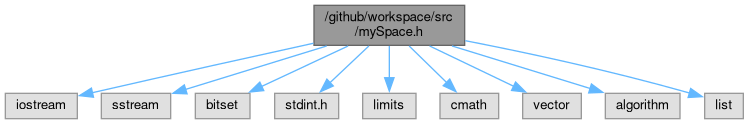
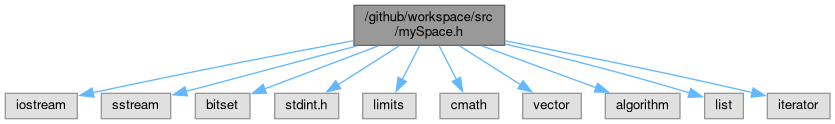
deploy: 8cd73b262c3b7a42bae6bb460446164779dda872

Changed region(s): [[0.0, 0.0242, 1.0, 0.9677]]

diff --git a/mySpace_8h_source.html b/mySpace_8h_source.html
@@ -88,74 +88,84 @@ $(function() {
 <div class="line"><a id="l00009" name="l00009"></a><span class="lineno">    9</span><span class="preprocessor">#include &lt;vector&gt;</span></div>
 <div class="line"><a id="l00010" name="l00010"></a><span class="lineno">   10</span><span class="preprocessor">#include &lt;algorithm&gt;</span></div>
 <div class="line"><a id="l00011" name="l00011"></a><span class="lineno">   11</span><span class="preprocessor">#include &lt;list&gt;</span></div>
-<div class="line"><a id="l00012" name="l00012"></a><span class="lineno">   12</span><span class="keyword">using namespace </span>std;</div>
-<div class="line"><a id="l00013" name="l00013"></a><span class="lineno">   13</span> </div>
-<div class="line"><a id="l00027" name="l00027"></a><span class="lineno">   27</span><span class="keyword">namespace </span><a class="code hl_namespace" href="namespacemySpace.html">mySpace</a> {</div>
-<div class="line"><a id="l00028" name="l00028"></a><span class="lineno">   28</span> </div>
-<div class="line"><a id="l00029" name="l00029"></a><span class="lineno"><a class="line" href="namespacemySpace.html#ae5d188d489ba6366008ab26bfe01c39d">   29</a></span><span class="keyword">const</span> <span class="keywordtype">int</span> <a class="code hl_variable" href="namespacemySpace.html#ae5d188d489ba6366008ab26bfe01c39d">bytesize</a> = 8; </div>
-<div class="line"><a id="l00034" name="l00034"></a><span class="lineno">   34</span><span class="keyword">template</span>&lt;<span class="keyword">typename</span> T&gt;</div>
-<div class="line"><a id="l00035" name="l00035"></a><span class="lineno"><a class="line" href="namespacemySpace.html#a0d57b7142e21cd86dcb9016ec6bd8fe3">   35</a></span><span class="keywordtype">void</span> <a class="code hl_function" href="namespacemySpace.html#a0d57b7142e21cd86dcb9016ec6bd8fe3">printString</a>(T line)</div>
-<div class="line"><a id="l00036" name="l00036"></a><span class="lineno">   36</span>{</div>
-<div class="line"><a id="l00037" name="l00037"></a><span class="lineno">   37</span>    std::ostringstream ss;</div>
-<div class="line"><a id="l00038" name="l00038"></a><span class="lineno">   38</span>    ss &lt;&lt; line;</div>
-<div class="line"><a id="l00039" name="l00039"></a><span class="lineno">   39</span>    cout &lt;&lt; ss.str();</div>
-<div class="line"><a id="l00040" name="l00040"></a><span class="lineno">   40</span>}</div>
-<div class="line"><a id="l00041" name="l00041"></a><span class="lineno">   41</span> </div>
-<div class="line"><a id="l00047" name="l00047"></a><span class="lineno"><a class="line" href="namespacemySpace.html#ac9439dd2c31f2c65153e2505a933e06a">   47</a></span><span class="keywordtype">void</span> <a class="code hl_function" href="namespacemySpace.html#ac9439dd2c31f2c65153e2505a933e06a">dotted</a>(<span class="keyword">const</span> <span class="keywordtype">string</span> &amp;bitString, <span class="keywordtype">int</span> size, <span class="keywordtype">string</span> &amp;res)</div>
-<div class="line"><a id="l00048" name="l00048"></a><span class="lineno">   48</span>{</div>
-<div class="line"><a id="l00049" name="l00049"></a><span class="lineno">   49</span>    size -= <a class="code hl_variable" href="namespacemySpace.html#ae5d188d489ba6366008ab26bfe01c39d">bytesize</a>;</div>
-<div class="line"><a id="l00050" name="l00050"></a><span class="lineno">   50</span> </div>
-<div class="line"><a id="l00051" name="l00051"></a><span class="lineno">   51</span>    <span class="keywordflow">if</span> (size &lt;= 0) {</div>
-<div class="line"><a id="l00052" name="l00052"></a><span class="lineno">   52</span>        <span class="keyword">const</span> <span class="keywordtype">int</span> sz = <a class="code hl_variable" href="namespacemySpace.html#ae5d188d489ba6366008ab26bfe01c39d">bytesize</a> + size;</div>
-<div class="line"><a id="l00053" name="l00053"></a><span class="lineno">   53</span>        <a class="code hl_function" href="namespacemySpace.html#a0d57b7142e21cd86dcb9016ec6bd8fe3">printString</a>(bitset&lt;bytesize&gt; { bitString.substr(0, sz) }.to_ulong());</div>
-<div class="line"><a id="l00054" name="l00054"></a><span class="lineno">   54</span>        <span class="keywordflow">return</span>;</div>
-<div class="line"><a id="l00055" name="l00055"></a><span class="lineno">   55</span>    }</div>
-<div class="line"><a id="l00056" name="l00056"></a><span class="lineno">   56</span> </div>
-<div class="line"><a id="l00057" name="l00057"></a><span class="lineno">   57</span>    <a class="code hl_function" href="namespacemySpace.html#ac9439dd2c31f2c65153e2505a933e06a">dotted</a>(bitString, size, res);</div>
-<div class="line"><a id="l00058" name="l00058"></a><span class="lineno">   58</span> </div>
-<div class="line"><a id="l00059" name="l00059"></a><span class="lineno">   59</span>    cout &lt;&lt; <span class="stringliteral">&quot;.&quot;</span>;</div>
-<div class="line"><a id="l00060" name="l00060"></a><span class="lineno">   60</span>    <a class="code hl_function" href="namespacemySpace.html#a0d57b7142e21cd86dcb9016ec6bd8fe3">printString</a>(bitset&lt;bytesize&gt; { bitString.substr(size, <a class="code hl_variable" href="namespacemySpace.html#ae5d188d489ba6366008ab26bfe01c39d">bytesize</a>) }.to_ulong());</div>
-<div class="line"><a id="l00061" name="l00061"></a><span class="lineno">   61</span>}</div>
-<div class="line"><a id="l00062" name="l00062"></a><span class="lineno">   62</span> </div>
-<div class="line"><a id="l00066" name="l00066"></a><span class="lineno">   66</span><span class="keyword">template</span>&lt;<span class="keyword">template</span>&lt;<span class="keyword">typename</span>, <span class="keyword">typename</span>&gt; <span class="keyword">typename</span> Container, <span class="keyword">typename</span> Type, <span class="keyword">typename</span> Allocator = allocator&lt;Type&gt;,</div>
-<div class="line"><a id="l00067" name="l00067"></a><span class="lineno">   67</span>     <span class="keyword">typename</span> = enable_if_t&lt;is_same_v&lt;Container&lt;Type, Allocator&gt;,</div>
-<div class="line"><a id="l00068" name="l00068"></a><span class="lineno">   68</span>                      vector&lt;Type, Allocator&gt;&gt; || is_same_v&lt;Container&lt;Type, Allocator&gt;, list&lt;Type, Allocator&gt;&gt;&gt;&gt;</div>
-<div class="line"><a id="l00069" name="l00069"></a><span class="lineno"><a class="line" href="namespacemySpace.html#ad5ceba764dde952f1f0d9b7350280adc">   69</a></span><span class="keywordtype">void</span> <a class="code hl_function" href="namespacemySpace.html#ad5ceba764dde952f1f0d9b7350280adc">printIP</a>(<span class="keyword">const</span> Container&lt;Type, Allocator&gt; &amp;container)</div>
-<div class="line"><a id="l00070" name="l00070"></a><span class="lineno">   70</span>{</div>
-<div class="line"><a id="l00071" name="l00071"></a><span class="lineno">   71</span>    <span class="keywordflow">for</span> (<span class="keyword">const</span> <span class="keyword">auto</span> &amp;x : container) {</div>
-<div class="line"><a id="l00072" name="l00072"></a><span class="lineno">   72</span>        <a class="code hl_function" href="namespacemySpace.html#a0d57b7142e21cd86dcb9016ec6bd8fe3">printString</a>(x);</div>
-<div class="line"><a id="l00073" name="l00073"></a><span class="lineno">   73</span>        cout &lt;&lt; ((x == container.back()) ? <span class="stringliteral">&quot;\n&quot;</span> : <span class="stringliteral">&quot;.&quot;</span>);</div>
-<div class="line"><a id="l00074" name="l00074"></a><span class="lineno">   74</span>    }</div>
-<div class="line"><a id="l00075" name="l00075"></a><span class="lineno">   75</span>}</div>
-<div class="line"><a id="l00076" name="l00076"></a><span class="lineno">   76</span> </div>
-<div class="line"><a id="l00080" name="l00080"></a><span class="lineno">   80</span><span class="keyword">template</span>&lt;<span class="keyword">template</span>&lt;<span class="keyword">typename</span>, <span class="keyword">typename</span>, <span class="keyword">typename</span>&gt; <span class="keyword">typename</span> bString, <span class="keyword">typename</span> CharT,</div>
-<div class="line"><a id="l00081" name="l00081"></a><span class="lineno">   81</span>     <span class="keyword">typename</span> Traits = std::char_traits&lt;CharT&gt;, <span class="keyword">typename</span> Allocator = std::allocator&lt;CharT&gt;,</div>
-<div class="line"><a id="l00082" name="l00082"></a><span class="lineno">   82</span>     <span class="keyword">typename</span> = enable_if_t&lt;is_same_v&lt;bString&lt;CharT, Traits, Allocator&gt;, basic_string&lt;CharT, Traits, Allocator&gt;&gt;&gt;&gt;</div>
-<div class="line"><a id="l00083" name="l00083"></a><span class="lineno"><a class="line" href="namespacemySpace.html#a64ee9b80eda0c0c5c09307b48af40762">   83</a></span><span class="keywordtype">void</span> <a class="code hl_function" href="namespacemySpace.html#ad5ceba764dde952f1f0d9b7350280adc">printIP</a>(<span class="keyword">const</span> bString&lt;CharT, Traits, Allocator&gt; &amp;s)</div>
-<div class="line"><a id="l00084" name="l00084"></a><span class="lineno">   84</span>{</div>
-<div class="line"><a id="l00085" name="l00085"></a><span class="lineno">   85</span>    <a class="code hl_function" href="namespacemySpace.html#a0d57b7142e21cd86dcb9016ec6bd8fe3">printString</a>(s);</div>
-<div class="line"><a id="l00086" name="l00086"></a><span class="lineno">   86</span>    cout &lt;&lt; endl;</div>
-<div class="line"><a id="l00087" name="l00087"></a><span class="lineno">   87</span>}</div>
-<div class="line"><a id="l00088" name="l00088"></a><span class="lineno">   88</span> </div>
-<div class="line"><a id="l00092" name="l00092"></a><span class="lineno">   92</span><span class="keyword">template</span>&lt;<span class="keyword">typename</span> Type, <span class="keyword">typename</span> = enable_if_t&lt;is_<span class="keywordtype">signed</span>_v&lt;Type&gt;&gt;&gt;</div>
-<div class="line"><a id="l00093" name="l00093"></a><span class="lineno"><a class="line" href="namespacemySpace.html#a23a371bb9fc2c58c37ab2c2a5b180006">   93</a></span><span class="keywordtype">void</span> <a class="code hl_function" href="namespacemySpace.html#ad5ceba764dde952f1f0d9b7350280adc">printIP</a>(<span class="keyword">const</span> Type &amp;num)</div>
-<div class="line"><a id="l00094" name="l00094"></a><span class="lineno">   94</span>{</div>
-<div class="line"><a id="l00095" name="l00095"></a><span class="lineno">   95</span>    bitset&lt;numeric_limits&lt;Type&gt;::digits + 1&gt; b(num);</div>
-<div class="line"><a id="l00096" name="l00096"></a><span class="lineno">   96</span>    <span class="keyword">const</span> <span class="keywordtype">string</span> bitString(b.to_string());</div>
-<div class="line"><a id="l00097" name="l00097"></a><span class="lineno">   97</span>    <span class="keywordtype">string</span> res;</div>
-<div class="line"><a id="l00098" name="l00098"></a><span class="lineno">   98</span>    <a class="code hl_function" href="namespacemySpace.html#ac9439dd2c31f2c65153e2505a933e06a">dotted</a>(bitString, bitString.size(), res);</div>
-<div class="line"><a id="l00099" name="l00099"></a><span class="lineno">   99</span>    <a class="code hl_function" href="namespacemySpace.html#a0d57b7142e21cd86dcb9016ec6bd8fe3">printString</a>(res);</div>
-<div class="line"><a id="l00100" name="l00100"></a><span class="lineno">  100</span>    cout &lt;&lt; endl;</div>
-<div class="line"><a id="l00101" name="l00101"></a><span class="lineno">  101</span>}</div>
+<div class="line"><a id="l00012" name="l00012"></a><span class="lineno">   12</span><span class="preprocessor">#include &lt;iterator&gt;</span></div>
+<div class="line"><a id="l00013" name="l00013"></a><span class="lineno">   13</span><span class="keyword">using namespace </span>std;</div>
+<div class="line"><a id="l00014" name="l00014"></a><span class="lineno">   14</span> </div>
+<div class="line"><a id="l00028" name="l00028"></a><span class="lineno">   28</span><span class="keyword">namespace </span><a class="code hl_namespace" href="namespacemySpace.html">mySpace</a> {</div>
+<div class="line"><a id="l00029" name="l00029"></a><span class="lineno">   29</span> </div>
+<div class="line"><a id="l00030" name="l00030"></a><span class="lineno"><a class="line" href="namespacemySpace.html#ae5d188d489ba6366008ab26bfe01c39d">   30</a></span><span class="keyword">const</span> <span class="keywordtype">int</span> <a class="code hl_variable" href="namespacemySpace.html#ae5d188d489ba6366008ab26bfe01c39d">bytesize</a> = 8; </div>
+<div class="line"><a id="l00035" name="l00035"></a><span class="lineno">   35</span><span class="keyword">template</span>&lt;<span class="keyword">typename</span> T&gt;</div>
+<div class="line"><a id="l00036" name="l00036"></a><span class="lineno"><a class="line" href="namespacemySpace.html#a0d57b7142e21cd86dcb9016ec6bd8fe3">   36</a></span><span class="keywordtype">void</span> <a class="code hl_function" href="namespacemySpace.html#a0d57b7142e21cd86dcb9016ec6bd8fe3">printString</a>(T line)</div>
+<div class="line"><a id="l00037" name="l00037"></a><span class="lineno">   37</span>{</div>
+<div class="line"><a id="l00038" name="l00038"></a><span class="lineno">   38</span>    std::ostringstream ss;</div>
+<div class="line"><a id="l00039" name="l00039"></a><span class="lineno">   39</span>    ss &lt;&lt; line;</div>
+<div class="line"><a id="l00040" name="l00040"></a><span class="lineno">   40</span>    cout &lt;&lt; ss.str();</div>
+<div class="line"><a id="l00041" name="l00041"></a><span class="lineno">   41</span>}</div>
+<div class="line"><a id="l00042" name="l00042"></a><span class="lineno">   42</span> </div>
+<div class="line"><a id="l00048" name="l00048"></a><span class="lineno"><a class="line" href="namespacemySpace.html#ac9439dd2c31f2c65153e2505a933e06a">   48</a></span><span class="keywordtype">void</span> <a class="code hl_function" href="namespacemySpace.html#ac9439dd2c31f2c65153e2505a933e06a">dotted</a>(<span class="keyword">const</span> <span class="keywordtype">string</span> &amp;bitString, <span class="keywordtype">int</span> size, <span class="keywordtype">string</span> &amp;res)</div>
+<div class="line"><a id="l00049" name="l00049"></a><span class="lineno">   49</span>{</div>
+<div class="line"><a id="l00050" name="l00050"></a><span class="lineno">   50</span>    size -= <a class="code hl_variable" href="namespacemySpace.html#ae5d188d489ba6366008ab26bfe01c39d">bytesize</a>;</div>
+<div class="line"><a id="l00051" name="l00051"></a><span class="lineno">   51</span> </div>
+<div class="line"><a id="l00052" name="l00052"></a><span class="lineno">   52</span>    <span class="keywordflow">if</span> (size &lt;= 0) {</div>
+<div class="line"><a id="l00053" name="l00053"></a><span class="lineno">   53</span>        <span class="keyword">const</span> <span class="keywordtype">int</span> sz = <a class="code hl_variable" href="namespacemySpace.html#ae5d188d489ba6366008ab26bfe01c39d">bytesize</a> + size;</div>
+<div class="line"><a id="l00054" name="l00054"></a><span class="lineno">   54</span>        <a class="code hl_function" href="namespacemySpace.html#a0d57b7142e21cd86dcb9016ec6bd8fe3">printString</a>(bitset&lt;bytesize&gt; { bitString.substr(0, sz) }.to_ulong());</div>
+<div class="line"><a id="l00055" name="l00055"></a><span class="lineno">   55</span>        <span class="keywordflow">return</span>;</div>
+<div class="line"><a id="l00056" name="l00056"></a><span class="lineno">   56</span>    }</div>
+<div class="line"><a id="l00057" name="l00057"></a><span class="lineno">   57</span> </div>
+<div class="line"><a id="l00058" name="l00058"></a><span class="lineno">   58</span>    <a class="code hl_function" href="namespacemySpace.html#ac9439dd2c31f2c65153e2505a933e06a">dotted</a>(bitString, size, res);</div>
+<div class="line"><a id="l00059" name="l00059"></a><span class="lineno">   59</span> </div>
+<div class="line"><a id="l00060" name="l00060"></a><span class="lineno">   60</span>    cout &lt;&lt; <span class="stringliteral">&quot;.&quot;</span>;</div>
+<div class="line"><a id="l00061" name="l00061"></a><span class="lineno">   61</span>    <a class="code hl_function" href="namespacemySpace.html#a0d57b7142e21cd86dcb9016ec6bd8fe3">printString</a>(bitset&lt;bytesize&gt; { bitString.substr(size, <a class="code hl_variable" href="namespacemySpace.html#ae5d188d489ba6366008ab26bfe01c39d">bytesize</a>) }.to_ulong());</div>
+<div class="line"><a id="l00062" name="l00062"></a><span class="lineno">   62</span>}</div>
+<div class="line"><a id="l00063" name="l00063"></a><span class="lineno">   63</span> </div>
+<div class="line"><a id="l00067" name="l00067"></a><span class="lineno">   67</span><span class="keyword">template</span>&lt;<span class="keyword">template</span>&lt;<span class="keyword">typename</span>, <span class="keyword">typename</span>&gt; <span class="keyword">typename</span> Container, <span class="keyword">typename</span> Type, <span class="keyword">typename</span> Allocator = allocator&lt;Type&gt;,</div>
+<div class="line"><a id="l00068" name="l00068"></a><span class="lineno">   68</span>     <span class="keyword">typename</span> = enable_if_t&lt;is_same_v&lt;Container&lt;Type, Allocator&gt;,</div>
+<div class="line"><a id="l00069" name="l00069"></a><span class="lineno">   69</span>                      vector&lt;Type, Allocator&gt;&gt; || is_same_v&lt;Container&lt;Type, Allocator&gt;, list&lt;Type, Allocator&gt;&gt;&gt;&gt;</div>
+<div class="line"><a id="l00070" name="l00070"></a><span class="lineno"><a class="line" href="namespacemySpace.html#ad5ceba764dde952f1f0d9b7350280adc">   70</a></span><span class="keywordtype">void</span> <a class="code hl_function" href="namespacemySpace.html#ad5ceba764dde952f1f0d9b7350280adc">printIP</a>(<span class="keyword">const</span> Container&lt;Type, Allocator&gt; &amp;container)</div>
+<div class="line"><a id="l00071" name="l00071"></a><span class="lineno">   71</span>{</div>
+<div class="line"><a id="l00072" name="l00072"></a><span class="lineno">   72</span>    <span class="keywordflow">for</span> (<span class="keyword">auto</span> it = container.cbegin(), end = container.cend(), lastItem = prev(container.cend()); it != end; ++it) {</div>
+<div class="line"><a id="l00073" name="l00073"></a><span class="lineno">   73</span>        <a class="code hl_function" href="namespacemySpace.html#a0d57b7142e21cd86dcb9016ec6bd8fe3">printString</a>(*it);</div>
+<div class="line"><a id="l00074" name="l00074"></a><span class="lineno">   74</span>        cout &lt;&lt; ((it == lastItem) ? <span class="stringliteral">&quot;\n&quot;</span> : <span class="stringliteral">&quot;.&quot;</span>);</div>
+<div class="line"><a id="l00075" name="l00075"></a><span class="lineno">   75</span>    }</div>
+<div class="line"><a id="l00076" name="l00076"></a><span class="lineno">   76</span>}</div>
+<div class="line"><a id="l00077" name="l00077"></a><span class="lineno">   77</span> </div>
+<div class="line"><a id="l00081" name="l00081"></a><span class="lineno">   81</span><span class="keyword">template</span>&lt;<span class="keyword">template</span>&lt;<span class="keyword">typename</span>, <span class="keyword">typename</span>, <span class="keyword">typename</span>&gt; <span class="keyword">typename</span> bString, <span class="keyword">typename</span> CharT,</div>
+<div class="line"><a id="l00082" name="l00082"></a><span class="lineno">   82</span>     <span class="keyword">typename</span> Traits = std::char_traits&lt;CharT&gt;, <span class="keyword">typename</span> Allocator = std::allocator&lt;CharT&gt;,</div>
+<div class="line"><a id="l00083" name="l00083"></a><span class="lineno">   83</span>     <span class="keyword">typename</span> = enable_if_t&lt;is_same_v&lt;bString&lt;CharT, Traits, Allocator&gt;, basic_string&lt;CharT, Traits, Allocator&gt;&gt;&gt;&gt;</div>
+<div class="line"><a id="l00084" name="l00084"></a><span class="lineno"><a class="line" href="namespacemySpace.html#a64ee9b80eda0c0c5c09307b48af40762">   84</a></span><span class="keywordtype">void</span> <a class="code hl_function" href="namespacemySpace.html#ad5ceba764dde952f1f0d9b7350280adc">printIP</a>(<span class="keyword">const</span> bString&lt;CharT, Traits, Allocator&gt; &amp;s)</div>
+<div class="line"><a id="l00085" name="l00085"></a><span class="lineno">   85</span>{</div>
+<div class="line"><a id="l00086" name="l00086"></a><span class="lineno">   86</span>    <a class="code hl_function" href="namespacemySpace.html#a0d57b7142e21cd86dcb9016ec6bd8fe3">printString</a>(s);</div>
+<div class="line"><a id="l00087" name="l00087"></a><span class="lineno">   87</span>    cout &lt;&lt; endl;</div>
+<div class="line"><a id="l00088" name="l00088"></a><span class="lineno">   88</span>}</div>
+<div class="line"><a id="l00089" name="l00089"></a><span class="lineno">   89</span> </div>
+<div class="line"><a id="l00093" name="l00093"></a><span class="lineno">   93</span><span class="keyword">template</span>&lt;<span class="keyword">typename</span> Type, <span class="keyword">typename</span> = enable_if_t&lt;is_<span class="keywordtype">int</span>egral_v&lt;Type&gt; &amp;&amp; !is_same_v&lt;<span class="keywordtype">bool</span>, Type&gt;&gt;&gt;</div>
+<div class="line"><a id="l00094" name="l00094"></a><span class="lineno"><a class="line" href="namespacemySpace.html#a23a371bb9fc2c58c37ab2c2a5b180006">   94</a></span><span class="keywordtype">void</span> <a class="code hl_function" href="namespacemySpace.html#ad5ceba764dde952f1f0d9b7350280adc">printIP</a>(<span class="keyword">const</span> Type &amp;num)</div>
+<div class="line"><a id="l00095" name="l00095"></a><span class="lineno">   95</span>{</div>
+<div class="line"><a id="l00096" name="l00096"></a><span class="lineno">   96</span>    bitset&lt;numeric_limits&lt;Type&gt;::digits + 1&gt; b(num);</div>
+<div class="line"><a id="l00097" name="l00097"></a><span class="lineno">   97</span>    <span class="keyword">const</span> <span class="keywordtype">string</span> bitString(b.to_string());</div>
+<div class="line"><a id="l00098" name="l00098"></a><span class="lineno">   98</span>    <span class="keywordtype">string</span> res;</div>
+<div class="line"><a id="l00099" name="l00099"></a><span class="lineno">   99</span>    <a class="code hl_function" href="namespacemySpace.html#ac9439dd2c31f2c65153e2505a933e06a">dotted</a>(bitString, bitString.size(), res);</div>
+<div class="line"><a id="l00100" name="l00100"></a><span class="lineno">  100</span>    <a class="code hl_function" href="namespacemySpace.html#a0d57b7142e21cd86dcb9016ec6bd8fe3">printString</a>(res);</div>
+<div class="line"><a id="l00101" name="l00101"></a><span class="lineno">  101</span>    cout &lt;&lt; endl;</div>
 <div class="line"><a id="l00102" name="l00102"></a><span class="lineno">  102</span> </div>
-<div class="line"><a id="l00103" name="l00103"></a><span class="lineno">  103</span>} <span class="comment">// namespace mySpace</span></div>
-<div class="line"><a id="l00104" name="l00104"></a><span class="lineno">  104</span> </div>
-<div class="line"><a id="l00105" name="l00105"></a><span class="lineno">  105</span><span class="preprocessor">#endif </span><span class="comment">// MYSPACE_H</span></div>
+<div class="line"><a id="l00103" name="l00103"></a><span class="lineno">  103</span><span class="comment">//    auto bytes = reinterpret_cast&lt;const unsigned char*&gt;(&amp;num);</span></div>
+<div class="line"><a id="l00104" name="l00104"></a><span class="lineno">  104</span><span class="comment">//    auto end = bytes + sizeof(Type);</span></div>
+<div class="line"><a id="l00105" name="l00105"></a><span class="lineno">  105</span><span class="comment">//    copy(</span></div>
+<div class="line"><a id="l00106" name="l00106"></a><span class="lineno">  106</span><span class="comment">//        make_reverse_iterator(end),</span></div>
+<div class="line"><a id="l00107" name="l00107"></a><span class="lineno">  107</span><span class="comment">//        make_reverse_iterator(bytes + 1),</span></div>
+<div class="line"><a id="l00108" name="l00108"></a><span class="lineno">  108</span><span class="comment">//        ostream_iterator&lt;unsigned&gt;(std::cout, &quot;.&quot;)</span></div>
+<div class="line"><a id="l00109" name="l00109"></a><span class="lineno">  109</span><span class="comment">//    );</span></div>
+<div class="line"><a id="l00110" name="l00110"></a><span class="lineno">  110</span><span class="comment">//    std::cout &lt;&lt; unsigned(*bytes) &lt;&lt; std::endl;</span></div>
+<div class="line"><a id="l00111" name="l00111"></a><span class="lineno">  111</span>}</div>
+<div class="line"><a id="l00112" name="l00112"></a><span class="lineno">  112</span> </div>
+<div class="line"><a id="l00113" name="l00113"></a><span class="lineno">  113</span>} <span class="comment">// namespace mySpace</span></div>
+<div class="line"><a id="l00114" name="l00114"></a><span class="lineno">  114</span> </div>
+<div class="line"><a id="l00115" name="l00115"></a><span class="lineno">  115</span><span class="preprocessor">#endif </span><span class="comment">// MYSPACE_H</span></div>
 <div class="ttc" id="anamespacemySpace_html"><div class="ttname"><a href="namespacemySpace.html">mySpace</a></div></div>
-<div class="ttc" id="anamespacemySpace_html_a0d57b7142e21cd86dcb9016ec6bd8fe3"><div class="ttname"><a href="namespacemySpace.html#a0d57b7142e21cd86dcb9016ec6bd8fe3">mySpace::printString</a></div><div class="ttdeci">void printString(T line)</div><div class="ttdoc">print numbers and strings as strings.</div><div class="ttdef"><b>Definition:</b> mySpace.h:35</div></div>
-<div class="ttc" id="anamespacemySpace_html_ac9439dd2c31f2c65153e2505a933e06a"><div class="ttname"><a href="namespacemySpace.html#ac9439dd2c31f2c65153e2505a933e06a">mySpace::dotted</a></div><div class="ttdeci">void dotted(const string &amp;bitString, int size, string &amp;res)</div><div class="ttdoc">prints bytes, starts from highest.</div><div class="ttdef"><b>Definition:</b> mySpace.h:47</div></div>
-<div class="ttc" id="anamespacemySpace_html_ad5ceba764dde952f1f0d9b7350280adc"><div class="ttname"><a href="namespacemySpace.html#ad5ceba764dde952f1f0d9b7350280adc">mySpace::printIP</a></div><div class="ttdeci">void printIP(const Container&lt; Type, Allocator &gt; &amp;container)</div><div class="ttdoc">prints bytes from list or vector, starts from highest.</div><div class="ttdef"><b>Definition:</b> mySpace.h:69</div></div>
-<div class="ttc" id="anamespacemySpace_html_ae5d188d489ba6366008ab26bfe01c39d"><div class="ttname"><a href="namespacemySpace.html#ae5d188d489ba6366008ab26bfe01c39d">mySpace::bytesize</a></div><div class="ttdeci">const int bytesize</div><div class="ttdef"><b>Definition:</b> mySpace.h:29</div></div>
+<div class="ttc" id="anamespacemySpace_html_a0d57b7142e21cd86dcb9016ec6bd8fe3"><div class="ttname"><a href="namespacemySpace.html#a0d57b7142e21cd86dcb9016ec6bd8fe3">mySpace::printString</a></div><div class="ttdeci">void printString(T line)</div><div class="ttdoc">print numbers and strings as strings.</div><div class="ttdef"><b>Definition:</b> mySpace.h:36</div></div>
+<div class="ttc" id="anamespacemySpace_html_ac9439dd2c31f2c65153e2505a933e06a"><div class="ttname"><a href="namespacemySpace.html#ac9439dd2c31f2c65153e2505a933e06a">mySpace::dotted</a></div><div class="ttdeci">void dotted(const string &amp;bitString, int size, string &amp;res)</div><div class="ttdoc">prints bytes, starts from highest.</div><div class="ttdef"><b>Definition:</b> mySpace.h:48</div></div>
+<div class="ttc" id="anamespacemySpace_html_ad5ceba764dde952f1f0d9b7350280adc"><div class="ttname"><a href="namespacemySpace.html#ad5ceba764dde952f1f0d9b7350280adc">mySpace::printIP</a></div><div class="ttdeci">void printIP(const Container&lt; Type, Allocator &gt; &amp;container)</div><div class="ttdoc">prints bytes from list or vector, starts from highest.</div><div class="ttdef"><b>Definition:</b> mySpace.h:70</div></div>
+<div class="ttc" id="anamespacemySpace_html_ae5d188d489ba6366008ab26bfe01c39d"><div class="ttname"><a href="namespacemySpace.html#ae5d188d489ba6366008ab26bfe01c39d">mySpace::bytesize</a></div><div class="ttdeci">const int bytesize</div><div class="ttdef"><b>Definition:</b> mySpace.h:30</div></div>
 </div><!-- fragment --></div><!-- contents -->
 <!-- HTML footer for doxygen 1.8.20-->
 <!-- start footer part -->

diff --git a/mySpace_8h.html b/mySpace_8h.html
@@ -90,12 +90,13 @@ $(function() {
 <code>#include &lt;vector&gt;</code><br />
 <code>#include &lt;algorithm&gt;</code><br />
 <code>#include &lt;list&gt;</code><br />
+<code>#include &lt;iterator&gt;</code><br />
 </div><div class="textblock"><div class="dynheader">
 Include dependency graph for mySpace.h:</div>
 <div class="dyncontent">
 <div class="center"><img src="mySpace_8h__incl.png" border="0" usemap="#a_2github_2workspace_2src_2mySpace_8h" alt=""/></div>
 <map name="a_2github_2workspace_2src_2mySpace_8h" id="a_2github_2workspace_2src_2mySpace_8h">
-<area shape="rect" title=" " alt="" coords="314,5,465,45"/>
+<area shape="rect" title=" " alt="" coords="354,5,505,45"/>
 <area shape="rect" title=" " alt="" coords="5,93,77,119"/>
 <area shape="rect" title=" " alt="" coords="101,93,171,119"/>
 <area shape="rect" title=" " alt="" coords="195,93,250,119"/>
@@ -105,6 +106,7 @@ Include dependency graph for mySpace.h:</div>
 <area shape="rect" title=" " alt="" coords="523,93,581,119"/>
 <area shape="rect" title=" " alt="" coords="605,93,680,119"/>
 <area shape="rect" title=" " alt="" coords="705,93,743,119"/>
+<area shape="rect" title=" " alt="" coords="767,93,830,119"/>
 </map>
 </div>
 </div>
@@ -132,7 +134,7 @@ Functions</h2></td></tr>
 <tr class="memitem:a64ee9b80eda0c0c5c09307b48af40762"><td class="memTemplItemLeft" align="right" valign="top">void&#160;</td><td class="memTemplItemRight" valign="bottom"><a class="el" href="namespacemySpace.html#a64ee9b80eda0c0c5c09307b48af40762">mySpace::printIP</a> (const bString&lt; CharT, Traits, Allocator &gt; &amp;s)</td></tr>
 <tr class="memdesc:a64ee9b80eda0c0c5c09307b48af40762"><td class="mdescLeft">&#160;</td><td class="mdescRight">prints basic_string.  <a href="namespacemySpace.html#a64ee9b80eda0c0c5c09307b48af40762">More...</a><br /></td></tr>
 <tr class="separator:a64ee9b80eda0c0c5c09307b48af40762"><td class="memSeparator" colspan="2">&#160;</td></tr>
-<tr class="memitem:a23a371bb9fc2c58c37ab2c2a5b180006"><td class="memTemplParams" colspan="2">template&lt;typename Type , typename  = enable_if_t&lt;is_signed_v&lt;Type&gt;&gt;&gt; </td></tr>
+<tr class="memitem:a23a371bb9fc2c58c37ab2c2a5b180006"><td class="memTemplParams" colspan="2">template&lt;typename Type , typename  = enable_if_t&lt;is_integral_v&lt;Type&gt; &amp;&amp; !is_same_v&lt;bool, Type&gt;&gt;&gt; </td></tr>
 <tr class="memitem:a23a371bb9fc2c58c37ab2c2a5b180006"><td class="memTemplItemLeft" align="right" valign="top">void&#160;</td><td class="memTemplItemRight" valign="bottom"><a class="el" href="namespacemySpace.html#a23a371bb9fc2c58c37ab2c2a5b180006">mySpace::printIP</a> (const Type &amp;num)</td></tr>
 <tr class="memdesc:a23a371bb9fc2c58c37ab2c2a5b180006"><td class="mdescLeft">&#160;</td><td class="mdescRight">prints bytes, starts from highest.  <a href="namespacemySpace.html#a23a371bb9fc2c58c37ab2c2a5b180006">More...</a><br /></td></tr>
 <tr class="separator:a23a371bb9fc2c58c37ab2c2a5b180006"><td class="memSeparator" colspan="2">&#160;</td></tr>

diff --git a/namespacemySpace.html b/namespacemySpace.html
@@ -94,7 +94,7 @@ Functions</h2></td></tr>
 <tr class="memitem:a64ee9b80eda0c0c5c09307b48af40762"><td class="memTemplItemLeft" align="right" valign="top">void&#160;</td><td class="memTemplItemRight" valign="bottom"><a class="el" href="namespacemySpace.html#a64ee9b80eda0c0c5c09307b48af40762">printIP</a> (const bString&lt; CharT, Traits, Allocator &gt; &amp;s)</td></tr>
 <tr class="memdesc:a64ee9b80eda0c0c5c09307b48af40762"><td class="mdescLeft">&#160;</td><td class="mdescRight">prints basic_string.  <a href="namespacemySpace.html#a64ee9b80eda0c0c5c09307b48af40762">More...</a><br /></td></tr>
 <tr class="separator:a64ee9b80eda0c0c5c09307b48af40762"><td class="memSeparator" colspan="2">&#160;</td></tr>
-<tr class="memitem:a23a371bb9fc2c58c37ab2c2a5b180006"><td class="memTemplParams" colspan="2">template&lt;typename Type , typename  = enable_if_t&lt;is_signed_v&lt;Type&gt;&gt;&gt; </td></tr>
+<tr class="memitem:a23a371bb9fc2c58c37ab2c2a5b180006"><td class="memTemplParams" colspan="2">template&lt;typename Type , typename  = enable_if_t&lt;is_integral_v&lt;Type&gt; &amp;&amp; !is_same_v&lt;bool, Type&gt;&gt;&gt; </td></tr>
 <tr class="memitem:a23a371bb9fc2c58c37ab2c2a5b180006"><td class="memTemplItemLeft" align="right" valign="top">void&#160;</td><td class="memTemplItemRight" valign="bottom"><a class="el" href="namespacemySpace.html#a23a371bb9fc2c58c37ab2c2a5b180006">printIP</a> (const Type &amp;num)</td></tr>
 <tr class="memdesc:a23a371bb9fc2c58c37ab2c2a5b180006"><td class="mdescLeft">&#160;</td><td class="mdescRight">prints bytes, starts from highest.  <a href="namespacemySpace.html#a23a371bb9fc2c58c37ab2c2a5b180006">More...</a><br /></td></tr>
 <tr class="separator:a23a371bb9fc2c58c37ab2c2a5b180006"><td class="memSeparator" colspan="2">&#160;</td></tr>
@@ -213,7 +213,7 @@ template&lt;template&lt; typename, typename &gt; typename Container, typename Ty
 <div class="memitem">
 <div class="memproto">
 <div class="memtemplate">
-template&lt;typename Type , typename  = enable_if_t&lt;is_signed_v&lt;Type&gt;&gt;&gt; </div>
+template&lt;typename Type , typename  = enable_if_t&lt;is_integral_v&lt;Type&gt; &amp;&amp; !is_same_v&lt;bool, Type&gt;&gt;&gt; </div>
       <table class="memname">
         <tr>
           <td class="memname">void mySpace::printIP </td>
